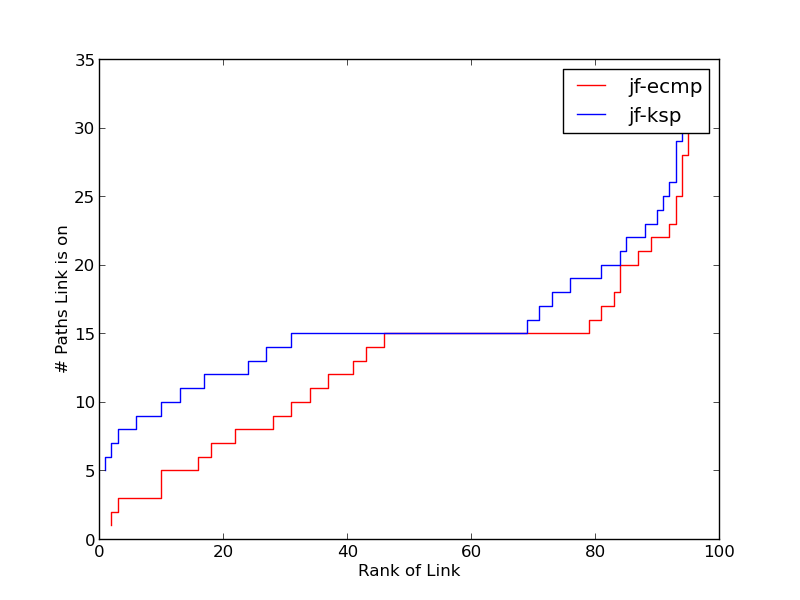
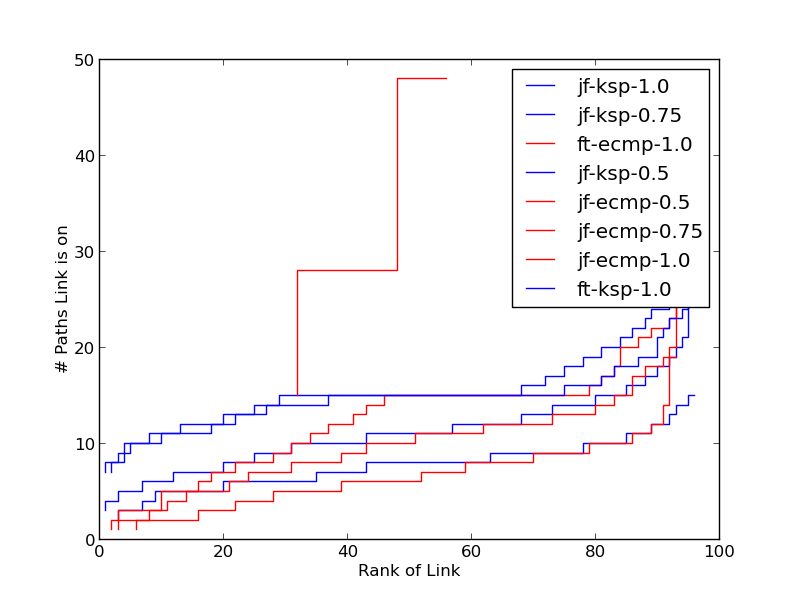
fixed problem with fat tree

diff --git a/jellyfish.py b/jellyfish.py
@@ -111,13 +111,13 @@ def parse_routes(routes, link_counts):
     for route in routes:
         parse_route(route, link_counts)
 
-def containsHost(link):
-    return link[0][0] == 'h' or link[1][0] == 'h'
+def containsHost(link, hosts):
+    return (link[0][0] in hosts) or (link[1][0] in hosts)
 
-def sort_counts(link_counts):
+def sort_counts(link_counts, hosts):
     counts = {}
     for link in link_counts:
-        if containsHost(link):
+        if containsHost(link, hosts):
             continue
         if link_counts[link] in counts:
             counts[link_counts[link]] += 1
@@ -129,7 +129,7 @@ def write_counts(counts, filename):
     if not os.path.exists(args.dir):
         os.makedirs(args.dir)
     f = open("%s/%s" % (args.dir, filename), 'w')
-    for num_paths in counts:
+    for num_paths in sorted(counts.iterkeys()):
         f.write("%s %s\n" % (str(num_paths), str(counts[num_paths])))
     f.close()
 
@@ -138,8 +138,27 @@ ROUTING = {
     'ecmp' : ECMPRouting
 }
 
-def links_experiment():
-    pass
+def links_experiment(topo, tp, routing):
+    seed(0)
+    link_counts = {}
+    routing_obj = ROUTING[routing](topo)
+    hosts = topo.hosts()
+    for src in hosts:
+        for dst in hosts:
+            if src == dst:
+                # skip if same node
+                continue
+            r = random()
+            if r < args.p:
+                #routes = routing_obj.get_routes(src, dst)
+                # routes don't include the src and dst hosts, so pass those to parse
+                #parse_routes(routes, link_counts)
+                route = routing_obj.get_route(src, dst, 0)
+                parse_route(route, link_counts)
+
+    counts = sort_counts(link_counts, hosts)
+    #print link_counts
+    write_counts(counts, "%s-%s-%s.txt" % (tp, routing, str(args.p)))
 
 def start_receiver(net, receiver):
     r = net.getNodeByName(receiver)
@@ -159,7 +178,7 @@ def throughput_experiment(net, topo, flows):
 #    monitor = Process(target=monitor_devs_ng, args=('%s/bwm.txt' % outputfolder, 1.0))
 #    monitor.start()
 
-    hosts = topo.hosts():
+    hosts = topo.hosts()
     for host in hosts:
         start_receiver(net, host)
 
@@ -223,28 +242,7 @@ def experiment(tp="jf", routing="ksp"):
     print "Starting experiments for topo %s and routing %s" % (tp, routing)
     #net.pingAll()
 
-    seed(0)
-    link_counts = {}
-    routing_obj = ROUTING[routing](topo)
-    for i in range(1, args.nServers + 1):
-        src = 'h%d' % i
-        for j in range(1, args.nServers + 1):
-            if i == j:
-                # skip if same node
-                continue
-            r = random()
-            if r < args.p:
-                dst = 'h%d' % j
-                #routes = routing_obj.get_routes(src, dst)
-                # routes don't include the src and dst hosts, so pass those to parse
-                #parse_routes(routes, link_counts)
-                route = routing_obj.get_route(src, dst, 0)
-                parse_route(route, link_counts)
-
-    counts = sort_counts(link_counts)
-    #print link_counts
-    write_counts(counts, "%s-%s" % (tp, routing))
-
+    links_experiment(topo, tp, routing)
 #    throughput_experiment(net, topo, 1)
 
     print "Stopping Mininet"
